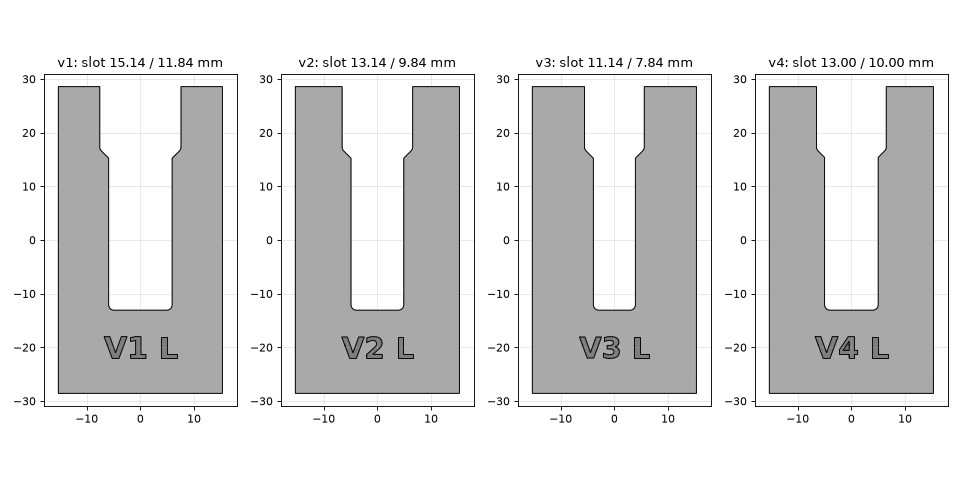
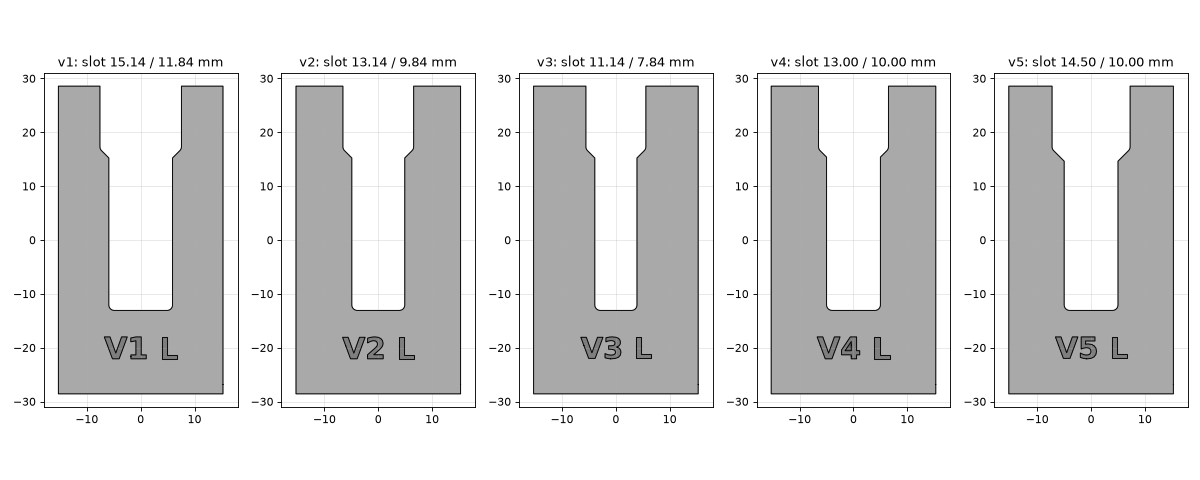
Add v5: widen upper slot to 14.5 mm to stop the lip spreading
v2's upper slot spread about 1 mm when the SL-300 was inserted, so v5
takes the measured spread plus ~0.4 mm clearance. The lower slot stays
at 10 mm.

diff --git a/shredlight_mount.py b/shredlight_mount.py
@@ -55,9 +55,10 @@ GAP = DEPTH - T  # space under the front lip for the light's flange (3/16")
 #   upper/lower: exact final slot widths in mm (FIT is not added).
 VERSIONS = {
     1: {"narrow": 0.0},  # 15.14/11.84 mm, photo-measured: side-to-side play. Obsolete.
-    2: {"narrow": 2.0},  # 13.14/9.84 mm: comfortably snug. Current winner.
+    2: {"narrow": 2.0},  # 13.14/9.84 mm: snug, but the upper slot spreads ~1 mm on insert.
     3: {"narrow": 4.0},  # 11.14/7.84 mm: too narrow, the light will not insert.
-    4: {"upper": 13.0, "lower": 10.0},  # whole-mm candidate, printing.
+    4: {"upper": 13.0, "lower": 10.0},  # works, but the upper slot is tighter than v2's.
+    5: {"upper": 14.5, "lower": 10.0},  # upper = v2 + 1 mm spread + ~0.4 mm clearance.
 }
 
 # --- Version label, engraved into the front lip below the slot ---

diff --git a/README.md b/README.md
@@ -30,9 +30,10 @@ Each version is engraved on the front lip (e.g. `V2 L`), so a printed part can b
 | Version | Slot upper / lower | Result |
 |---|---|---|
 | v1 | 15.14 / 11.84 mm | Photo-measured. Side-to-side play. Obsolete. |
-| v2 | 13.14 / 9.84 mm | Comfortably snug. **Current winner.** |
+| v2 | 13.14 / 9.84 mm | Snug, but the upper slot spreads about 1 mm when the light goes in. Stresses the part. |
 | v3 | 11.14 / 7.84 mm | Too narrow. The light will not insert. |
-| v4 | 13.00 / 10.00 mm | Whole-millimetre candidate. Being tested. |
+| v4 | 13.00 / 10.00 mm | Works, but the upper slot is even tighter than v2's. |
+| v5 | 14.50 / 10.00 mm | Upper widened by the measured spread plus clearance. **Being tested.** |
 
 The STLs are in [`out/`](out), in millimetres.
 
@@ -56,7 +57,7 @@ version, add an entry to `VERSIONS`: either `{"narrow": mm}` from the measured s
 
 ## Roadmap
 
-- [ ] Choose v2 or v4 as the final slot
+- [ ] Confirm v5 slides in without spreading, then pick the final slot
 - [ ] Design what the mount attaches to on the board
 
 ## License
